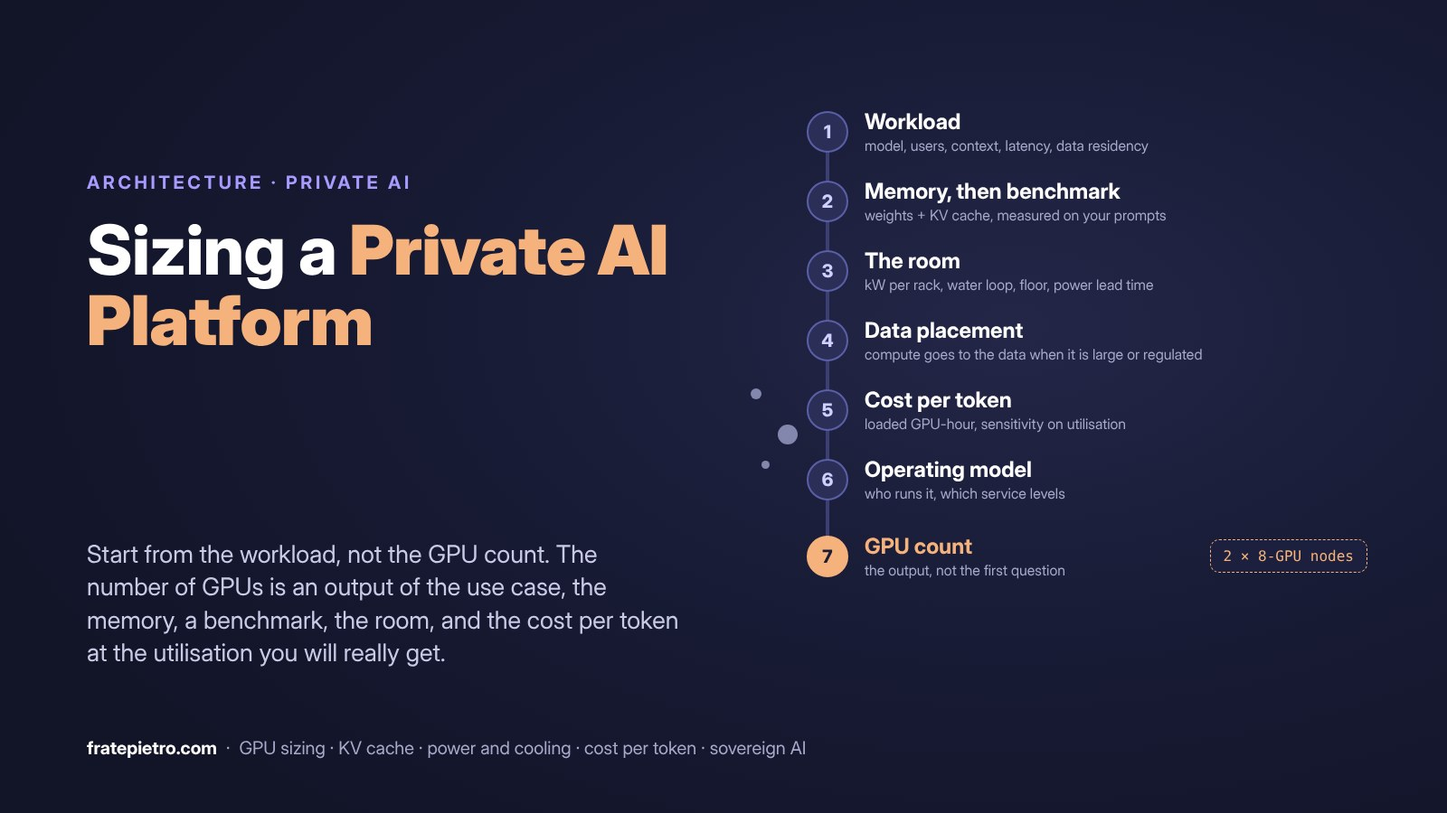
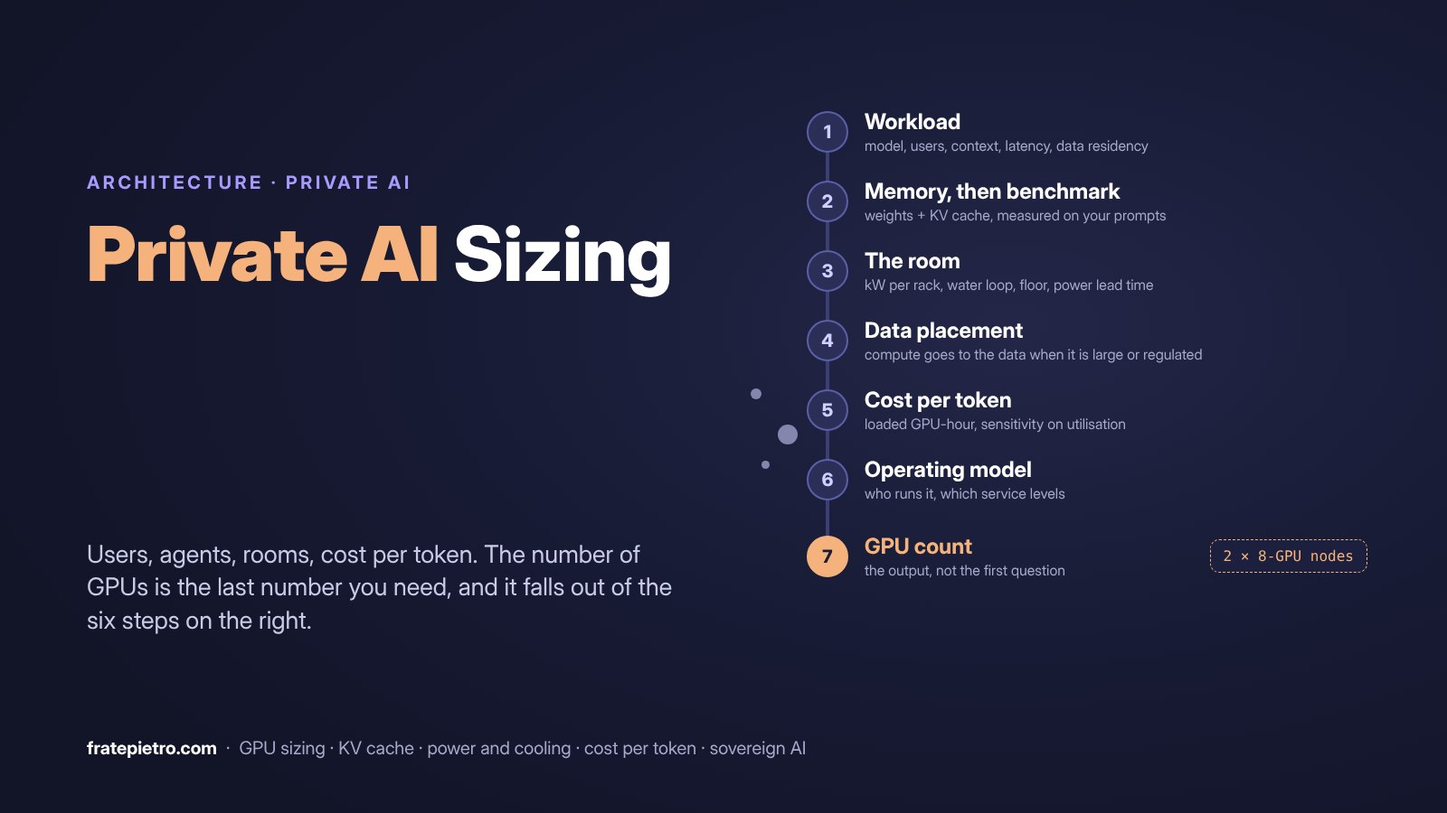
update

Changed region(s): [[0.0625, 0.6533, 0.4688, 0.84], [0.0625, 0.28, 0.4688, 0.4356]]

diff --git a/_posts/2026-10-29-private-ai-sizing-users-agents-rooms-cost-per-token.md b/_posts/2026-10-29-private-ai-sizing-users-agents-rooms-cost-per-token.md
@@ -1,0 +1,215 @@
+---
+layout: post
+title: "Private AI Sizing: Users, Agents, Rooms, Cost per Token"
+date: 2026-10-29
+categories: [Architecture]
+image: /assets/images/posts/private-ai-sizing-header.jpg
+tags: [AI Infrastructure, Private AI, Sovereign AI, GPU Sizing, LLM Inference, KV Cache, Agentic AI, TCO, Cost per Token, Energy per Token, Data Center, AI Factory, Banking, Healthcare, Public Sector]
+excerpt: "The first question a CTO asks about private AI is how many GPUs to buy. The answer comes from the other end: how many requests are in flight, whether the workload is chat or agents, what the regulator requires, the room the hardware goes in, and the cost and energy per token at the utilisation you will really get. Worked numbers for a bank, with prices as of October 2026."
+---
+
+<figure>
+  <img src="{{ '/assets/images/posts/private-ai-sizing-header.jpg' | absolute_url }}" alt="Private AI Sizing. Six numbered steps, workload, memory then benchmark, the room, data placement, cost per token, operating model, lead to the GPU count as the output.">
+</figure>
+
+The conversation about private AI starts the same way almost every time. A team has a few use cases running on cloud GPUs, the bill is growing, and the business wants a predictable cost and control over where the data goes. The first question on the table is how many GPUs to buy.
+
+I think this is the wrong first question. The number matters, and it is an output. Start from the GPU count and you get a quote. Start from the workload and you get a design, a cost you are able to defend, and a platform someone will run.
+
+Most sizing guides skip the two steps where the real uncertainty lives: how many requests are in flight at the same time, and what the industry's regulator forces on the design. This post covers both, with a bank as the running example, and then memory, the room, data placement, cost, energy and operations. A note on numbers. Hardware prices, cloud rates and electricity costs in this post are market observations from October 2026, and they will be out of date within months. GPU rental rates fell by a third in the past year alone. The formulas, the Little's law chain and the breakeven logic do not age. Keep the method, replace the inputs.
+
+## 1. Write down the workload before you talk to a vendor
+
+Four numbers decide most of the design. Get them from the people who own the use case.
+
+- Which model, and at which precision. A 70 billion parameter model in 8-bit floating point is about 70 GB of weights. In 16-bit, double that.
+- How many requests are in flight at the same time, at peak. Not registered users, not daily users. Requests being served right now.
+- How long the prompts and answers are. Retrieval-augmented generation makes prompts long, and long prompts eat memory.
+- Which latency the users will accept. Time to first token for a chat assistant is a different target from throughput for a nightly batch job.
+
+Add one constraint: where the data is allowed to live. For the bank, in the country, on hardware the bank controls.
+
+<figure>
+  <img src="{{ '/assets/images/posts/private-ai-sizing-six-steps.png' | absolute_url }}" alt="Six questions before the GPU count: workload, memory then benchmark, the room, data placement, cost per token, operating model. Each card lists its inputs and the output it produces. The GPU count is the result at the bottom.">
+  <figcaption>Each step produces one number or one decision. The bill of materials falls out at the end.</figcaption>
+</figure>
+
+### From employees to requests in flight
+
+The second number is the one nobody has. Sponsors know how many employees will get the assistant. The platform needs to know how many requests are being served at the same second. Little's law from queueing theory crosses the gap: requests in flight = arrival rate x time per request.
+
+Take a bank with 5,000 employees licensed for an internal assistant.
+
+- Adoption. One consultancy's copilot benchmarks put active users at [40 to 60 percent of licensed seats after six months](https://www.copilotconsulting.com/insights/microsoft-copilot-adoption-rates-benchmarks-2026), with daily actives at 30 to 40 percent of monthly actives, and slower uptake in financial services and healthcare. Call it 2,500 monthly users and 1,000 on a given day.
+- Frequency. A session has 3 to 5 prompts, and most people run one or two sessions a day. Call it 6 prompts per daily user, so 6,000 requests a day.
+- Peak hour. Office traffic concentrates. Assume 20 percent of the day lands in the busiest hour: 1,200 requests, one every three seconds.
+- Duration. A 1,500-token prompt and a 300-token answer at 30 tokens per second take about 10 seconds end to end.
+
+Little's law: 0.33 requests per second x 10 seconds = 3 or 4 requests in flight at peak. With a safety factor of three for lumpy arrivals and launches, plan for 10 to 12. For 5,000 employees. One 8-GPU node serves this with most of its capacity idle.
+
+"200 concurrent users" on a vendor slide means 200 requests in flight, which by this arithmetic is a bank with 50,000 to 100,000 daily users or a customer-facing assistant, not an internal copilot. Microsoft's [provisioned throughput sizing](https://learn.microsoft.com/en-us/azure/foundry/openai/how-to/provisioned-throughput-sizing) asks for the same inputs: peak requests per minute, prompt size, response size, cache rate. Their worked example of 1,000 requests per minute is consumer scale.
+
+Write the chain down: licensed, monthly active, daily active, prompts per day, peak hour share, seconds per request, requests in flight. Every link is an assumption the business owns and a number you will measure after launch.
+
+### Agents change every number in the chain
+
+An agent is a loop: the model reads, calls a tool, reads the result, plans again, and repeats until the task is done. Three things change.
+
+Tokens per task. A chat exchange is a few hundred to a couple of thousand tokens. A five-step agent task in a fraud-check example runs to [about 13,500 tokens](https://www.spheron.network/blog/agentic-ai-inference-cost-2026/), and analyst estimates for enterprise agents sit in a 5 to 30 times range over chat. At the far end, a Stanford and Michigan study of coding agents on SWE-bench found [roughly a thousand times more tokens than a code chat](https://arxiv.org/abs/2604.22750), with input tokens and cache reads driving most of the cost and token use between runs of the same task varying up to 30 times.
+
+Duration. A chat request lasts ten seconds. An agent run lasts minutes, so the same number of tasks per hour produces many more runs in flight, each holding a growing context in memory.
+
+Concurrency. Each run makes many model calls in sequence and re-sends most of the previous context each time. Prefix caching and cache-aware routing stop being optional.
+
+Back to the bank. Give 200 operations staff an agent that checks a transaction against policy, pulls three documents and drafts a note: 20 runs a day each, 4,000 runs a day, 800 in the peak hour, each about 3 minutes and 15,000 tokens. Little's law: 0.22 runs per second x 180 seconds = 40 runs in flight at 10 to 20 thousand tokens of context each, and 12 million tokens in the peak hour, or 3,300 tokens per second sustained. That is more load than the 5,000-employee assistant, from a group 25 times smaller.
+
+The rule: size chat assistants from users and sessions, size agents from tasks per hour and tokens per task, and expect the agent line to dominate within a year.
+
+### Peaks, and what happens above them
+
+Everything above is sized for the peak hour, and the peak hour is itself an average. Inside it, arrivals bunch. Monday at nine, the minutes after an all-hands email, a batch job someone scheduled at noon, an agent that fans out forty calls at once. A platform sized for 12 requests in flight will see 30 for a few seconds several times a day, and once a quarter it will see 100.
+
+Two numbers to agree with the business, not one. The peak you size for, and the peak you refuse. The first sets the GPU count. The second sets what the platform does when the first is exceeded, and that decision is part of the architecture.
+
+The choice is between three behaviours. Queue the request, with a bound, so the user waits a few seconds instead of timing out. Shed it with a clear retry signal, so the client backs off instead of retrying into a system that is already full. Or degrade it: a smaller model, a shorter context, a lower priority class for the batch job so the clinician or the adviser keeps their latency. Which of the three applies to which workload is a business decision, and in a regulated environment it is also an audit question, because "what did the platform do under load" will be asked after an incident.
+
+Routing picks the GPU. Admission control decides whether to take the request at all, based on free cache memory, remaining compute and concurrency limits. I wrote about how the serving engines and orchestrators implement it, and why agents need a different approach, in [Admission control for distributed LLM inference](https://www.fratepietro.com/2026/llm-admission-control-distributed-inference/). For sizing, the short version is this: the GPU count buys you the sized peak, and admission control buys you survival above it. Without the second, the first is a number on a slide. A platform with bounded queues and priority classes needs less headroom than one without, which is money.
+
+Three practical rules follow. Size for the peak hour, not the peak second, and let admission control absorb the difference. Give agents their own concurrency budget, because one runaway agent run can take the capacity of a hundred chat users. And measure the refused and queued requests from day one, because that count is the earliest signal that the agent line is growing faster than planned.
+
+## 2. Size the memory, then benchmark
+
+Inference is a memory problem first. Each GPU holds the weights plus the key-value cache, the working memory of every conversation in flight. For a Llama-class 70B model the cache is about 0.32 MB per token in 16-bit. One H100 with 4-bit weights fits [about 28 requests at 4K context and almost none at 128K](https://www.spheron.network/blog/how-many-concurrent-users-can-one-h100-serve-a-kv-cache-sizi/), which is why context length is on the list in step 1.
+
+KV cache per token = 2 x layers x KV heads x head dimension x bytes per value
+
+For the bank's two workloads together, 12 chat requests at 8K context and 40 agent runs at 16K, the cache is about 750,000 tokens, around 240 GB in 16-bit or 120 GB in 8-bit. Add 70 GB of weights. One 8-GPU H200 node has about 1.1 TB of high-bandwidth memory, so the bank fits in one node with room to grow, two with redundancy. Memory is rarely the constraint for an internal platform. Throughput at the agreed latency is.
+
+So stop trusting the paper here. Run the bank's own model with the bank's own prompts on the target hardware, and measure time to first token and tokens per second against the latency from step 1. NVIDIA's [benchmarking guide](https://developer.nvidia.com/blog/llm-inference-benchmarking-how-much-does-your-llm-inference-cost) gives the method: sweep concurrency, plot throughput against time to first token, pick the highest throughput that still meets the target (250 ms for chat in their example), and divide peak requests per second by requests per second per server. Vendor benchmarks tend to use shorter prompts than yours.
+
+A pilot should leave you with a benchmark on your prompts, a reference architecture, and a clear view of what the platform will cost to run.
+
+## 3. The industry decides more than the model does
+
+The arithmetic is the same in every sector. Who the users are, what they ask, and which rules shape the design are not.
+
+### Banking and insurance
+
+The users are relationship managers, analysts, operations and compliance staff. The use cases that pass risk review first are grounded in internal documents: client materials, policy checks, know-your-customer summaries, code assistance. In October 2026 Deutsche Bank [deployed an AI platform inside its own technology environment](https://www.marketsmedia.com/deutsche-bank-deploys-ai-on-premise-in-ib-capital-markets/) for investment banking teams, so that sensitive data, proprietary knowledge and workflow activity stay inside the bank.
+
+The rules are concrete. The ECB's [guide on cloud outsourcing](https://www.jonesday.com/en/insights/2025/11/new-ecb-guide-on-outsourcing-cloud-services-to-cloud-service-providers), published in July 2025 and used as a benchmark in the 2026 supervisory cycle, expects data storage restricted to approved jurisdictions with traceability, an assessment of third-country legal risk, an exit strategy with timelines and costs before go-live for every critical service, concentration risk assessed across providers, disaster recovery tested yearly including provider failure, and encryption in transit, at rest and where feasible in use. Under the Digital Operational Resilience Act an AI platform is an ICT system, so it enters the register of information with its dependency chain, model provider and hosting region included, and incidents on it are reportable. In November 2025 the European supervisors [designated 19 critical ICT third-party providers](https://www.dawiso.com/blog-post/ai-agents-in-banking-dora-compliance-2026), the three large hyperscalers among them.
+
+For the design this means a private or in-country deployment is the simplest answer to the data-location and exit questions, open-weight models are themselves an exit path, and key management, audit trail and exit plan are part of the architecture.
+
+### Healthcare
+
+The users are clinicians, and the use cases that work are anchored to a source text. A German university hospital with more than 10,000 employees [deployed DeepSeek-R1 on-premise through vLLM](https://arxiv.org/abs/2604.22768) behind network segmentation and egress filtering, and got management, data protection and security to approve processing unanonymised patient data. Report corrections, simplifications and guideline lookups scored well. Open-ended generation of conclusions produced clinically relevant errors. Twenty-two users in one week, so early, but the architecture is published.
+
+For the design: isolation first, then capacity. A hospital platform is small in GPUs and large in network and security engineering, and the peak-hour share is higher than in an office.
+
+### Public sector
+
+The scale is different. "OpenAI for Germany" for the public sector runs on [SAP's Delos Cloud, planned to grow to 4,000 GPUs](https://www.techradar.com/pro/germany-is-getting-its-own-sovereign-version-of-openai), for millions of public employees. That is a sovereign-cloud pattern: a dedicated in-country environment under national law, shared by many agencies. For a single ministry the question is which tenant quota, and which workloads need their own hardware anyway, usually those with classified data.
+
+### Research institutions
+
+The users already live in a batch scheduler. The mix is simulation, training and a growing inference tail, and data gravity dominates: datasets of tens of terabytes sit on a campus network. The pattern is colocation with redundant links to the campus, as in Helmholtz Munich's move of about 300 servers, plus public AI Factories such as JUPITER in Jülich for runs no single institute will fund. Tenders set the calendar, and the calendar is longer than a hardware generation.
+
+| Sector | Typical users | Use cases that clear risk review first | What shapes the design |
+| --- | --- | --- | --- |
+| Banking and insurance | Advisers, analysts, operations, compliance | Grounded document work, policy checks, code assistance | ECB cloud guide, DORA register and incident reporting, exit strategy, key management, in-country data |
+| Healthcare | Clinicians, researchers | Source-anchored tasks: report correction, simplification, guideline lookup | Patient data approval, network isolation, bursty clinical hours |
+| Public sector | Civil servants across agencies | Drafting, search over regulations, citizen-service support | Sovereign cloud tenancy under national law, separate hardware for classified data |
+| Research | Researchers, students | Training runs, simulation, inference for analysis | Data gravity to the campus, Slurm, public AI Factories, tender calendars |
+
+## 4. Ask about the room before you ask about the rack
+
+Power and cooling are not a detail. An H100 or H200 draws up to 700 W, a B200 1,000 to 1,200 W. An [8-GPU H100 node draws about 10 kW with server overhead, a B200 node 13 to 15 kW](https://www.spheron.network/blog/ai-inference-power-electricity-cost-2026/), and a GB200 NVL72 rack around 120 kW with liquid cooling to the chip. Most enterprise rooms were built for 5 to 15 kW per rack.
+
+Four questions for the facility before anyone draws a rack:
+
+- Kilowatts per rack, today and after the next upgrade of the room?
+- A water loop, or a plan for one? Rear-door heat exchangers reach roughly 40 kW. Above that it is direct liquid cooling and coolant distribution units.
+- Does the floor hold the weight?
+- How long does extra power take to arrive? In some cities, years.
+
+The bank's room is built for 8 kW per rack. So on-premise means air-cooled nodes spread across racks, or the GPU platform in a colocation site in the same country with a dedicated line, or inference near the users and anything heavier in colocation. Three options, three prices, and the constraints pick one. The 120 kW rack was never on the list: the bank does not need 72 GPUs in one NVLink domain to serve a 70B model.
+
+## 5. Decide where the data lives, then where the compute goes
+
+Data accumulates. Every dataset, model and log lands in one place, and after a year or two moving any of it takes months. The egress fee is the small part. Re-engineering pipelines and re-validating models is the large part.
+
+Decide data placement early and put compute next to the data when the data is large or regulated. For a research institute that means colocation with links to the campus. For the bank it means the same country and the same legal control, whatever the building.
+
+Sovereignty follows, and it is more than a location: who can access data and models, including support staff and foreign law, who holds the keys, where hardware and support come from, and whether you are able to leave. Open-weight models help because you know what you are running. Write the controls down at design time. In banking the ECB guide above is the list.
+
+## 6. Cost per token, with real prices and the utilisation you will really get
+
+The business case is the part most engineers skip and the part the board reads. Everything comes from the loaded cost per GPU-hour:
+
+cost per GPU-hour = (hardware amortised over 3 to 5 years + power + space + network + software + people) / (GPUs x hours x utilisation)
+
+Fill it in with the numbers you have today. Here is what they looked like in October 2026, so you have a worked example to replace. An [8-GPU H100 system costs 250,000 to 320,000 dollars new](https://www.cloudzero.com/blog/h100-gpu-cost/), about 285,000 typical, with H200 and B200 systems quote-based above that. NVIDIA's own worked example uses 320,000 dollars over four years plus 7,500 a year of hosting and software. Electricity at 0.12 dollars per kWh with a PUE of 1.4 comes to [about 150 dollars per GPU per month](https://www.spheron.network/blog/ai-inference-power-electricity-cost-2026/), roughly 0.21 dollars per GPU-hour, and about double that at European industrial rates. Add one platform engineer at 120,000 a year for two nodes, which is 0.86 dollars per GPU-hour on 16 GPUs.
+
+At 100 percent utilisation that is about 2.20 dollars per GPU-hour in the US and 2.40 in Europe. Real utilisation is the divisor:
+
+| Average utilisation | Loaded cost per GPU-hour, US power (Oct 2026) | Europe power (Oct 2026) |
+| --- | --- | --- |
+| 70 percent | 3.10 dollars | 3.40 dollars |
+| 50 percent | 4.40 dollars | 4.80 dollars |
+| 30 percent | 7.30 dollars | 8.00 dollars |
+
+Compare with the cloud: the [market median for an H100 is about 3.25 dollars per GPU-hour](https://www.cloudzero.com/blog/h100-gpu-cost/) on demand across providers, 4.40 for an H200 and around 5.70 for a B200 on spot, with the large hyperscalers at 6 to 7 dollars. So, at these prices, a private platform beats on-demand cloud above roughly 60 to 70 percent utilisation and loses below 50, before counting data control. The crossover moves as both sides reprice: when cloud rates fall faster than hardware prices, the bar for private rises, and the utilisation sensitivity is what tells you where it sits this quarter. One [unit-economics analysis](https://introl.com/blog/inference-unit-economics-true-cost-per-million-tokens-guide) puts the breakeven for self-hosting against managed APIs above 8,000 conversations a day, which matches the arithmetic from step 1.
+
+<figure>
+  <img src="{{ '/assets/images/posts/private-ai-sizing-cost-per-token.png' | absolute_url }}" alt="Bar chart of relative cost per token for the same private cluster at 20 to 80 percent average GPU utilisation. At 20 percent the cost is 3.5 times the cost at 70 percent, at 30 percent 2.3 times, at 40 percent 1.75 times, at 50 percent 1.4 times, at 60 percent 1.17 times, at 80 percent 0.88 times.">
+  <figcaption>Same hardware, same power, same people. Only the tokens change.</figcaption>
+</figure>
+
+Now the arithmetic from step 1 bites. The 5,000-employee assistant alone would run a node at a few percent utilisation outside the peak hour. The private case closes only when the platform carries steady work: the agent line, batch jobs at night, several use cases on shared capacity. Chat assistants justify a cloud subscription. Agents, batch and regulated data justify a platform.
+
+The comparison for a board is three to five years of cost, cloud against private, with a sensitivity on utilisation, egress and committed-use discounts on the cloud side, people on the private side. In most cases the answer is a hybrid: private for the steady load, cloud or GPU-as-a-service for the bursts.
+
+## 7. Energy per token
+
+Cost per token is energy per token with a price attached, and the energy number is becoming a reporting line of its own.
+
+Three reference points. Google measured a median Gemini text prompt at [0.24 watt-hours](https://arxiv.org/abs/2508.15734), about 860 joules, with 0.14 Wh on the accelerator and the rest in host, idle capacity and facility overhead, and a 33 times reduction per prompt over twelve months, 23 times from model changes and 1.4 times from utilisation. Microsoft Research puts [optimised frontier inference at a median 0.31 Wh per query](https://www.microsoft.com/en-us/research/?p=1170806), says public estimates overstate production energy by 4 to 20 times, and finds that long reasoning and agent queries raise energy per request by more than an order of magnitude. At the token level, a Carnegie Mellon [measurement on H200](https://arxiv.org/abs/2608.28044) puts Llama 3.1 8B at about 1.4 joules per output token at batch 16 and 2K context, and 5 to 6 joules per token at batch 1, a four times gap from batching alone.
+
+For the bank's node the estimate is direct, and it depends on the node's power draw and your tariff more than on anything a vendor publishes. A 10 kW node at PUE 1.3 draws 13 kW. At the 3,300 tokens per second of the agent peak that is about 4 joules per token, or 1.1 kWh per million tokens, roughly 0.25 dollars of electricity per million tokens at European rates. At 30 percent utilisation the node draws most of that power anyway, so energy per token roughly triples. The levers, in order: a smaller or quantized model, prefix caching, batching, and only then the hardware generation.
+
+The hardware is moving too. NVIDIA's [Rubin platform](https://nvidianews.nvidia.com/news/rubin-platform-ai-supercomputer), shipping from partners in the second half of 2026, carries 288 GB of HBM4 per GPU, 3.6 exaflops of 4-bit inference per 72-GPU rack, and a claim of up to 10 times lower cost per token than Blackwell for mixture-of-experts models. Spectrum-X Photonics switches with co-packaged optics claim 5 times better power efficiency than pluggable transceivers. Treat these as upper bounds until you run your own prompts, and remember that a faster rack is a denser rack: Rubin and Blackwell NVL72 are liquid-cooled, so step 4 comes back before the gain arrives.
+
+## 8. Design the operating model with the hardware
+
+On day two someone owns driver and firmware updates, the scheduler, capacity planning, incidents, patching, and a monthly report on utilisation, cost per token and energy per token. Decide who before the purchase order, because the answer changes the design.
+
+Researchers in Slurm and enterprise teams in Kubernetes with the GPU Operator need different platforms, and many organisations need both. If nobody in-house will run it, a managed service is part of the architecture, with service levels in the same document as the bill of materials. In a bank the operating model also answers the DORA questions: who reports an incident on the platform, within which deadline, with which evidence.
+
+## What the existing guides cover, and what they skip
+
+[VMware's sizing guidance](https://blogs.vmware.com/cloud-foundation/2024/09/25/llm-inference-sizing-and-performance-guidance/) sets the latency targets most people quote, under 200 ms to first token and 30 tokens per second per user. The [KV-cache walkthrough](https://www.spheron.network/blog/how-many-concurrent-users-can-one-h100-serve-a-kv-cache-sizi/) gives per-model cache figures and a concurrency ceiling per GPU. The [users-to-GPU method](https://garagegeekblog.com/2026/05/07/llm-sizing-101-part-2-from-tokens-per-second-to-gpu-count/) converts concurrent users to system tokens per second with 20 to 30 percent headroom. NVIDIA's [benchmarking post](https://developer.nvidia.com/blog/llm-inference-benchmarking-how-much-does-your-llm-inference-cost) turns a benchmark into cost per million tokens, and Microsoft's [throughput sizing](https://learn.microsoft.com/en-us/azure/foundry/openai/how-to/provisioned-throughput-sizing) is the cleanest statement of the inputs.
+
+All of them start from concurrent users or peak requests per minute as a given. None of them gets there from a headcount, treats agents as a different workload, says what the platform does above its sized peak, or includes the room, the regulator, the energy line or the operating model. Those are the steps where private AI projects stall.
+
+## The bank on one page
+
+Workload: 5,000 employees on a 70B assistant, 8-bit, about 12 requests in flight at peak, plus 200 operations staff on an agent, about 40 runs in flight at 16K context, 2 seconds to first token, data in country. Above the sized peak: bounded queue for chat, priority classes with agents and batch below interactive users, shed with a retry signal beyond that.
+
+Compute: two 8-GPU H200 nodes, one for capacity and one for redundancy, validated on the bank's prompts, with headroom for the agent line to triple.
+
+Network: NVLink inside the node, Ethernet between nodes, because inference replicas stay inside a node and the operations team already runs Ethernet.
+
+Storage: an all-flash tier for model loading and cache offload. A parallel file system waits until fine-tuning starts.
+
+Facility: the 8 kW room will not host the nodes in one rack, so in-country colocation with a dedicated line, or air-cooled nodes across racks. Priced both ways.
+
+Regulation: register of information entry, exit strategy with costs, keys under the bank's control, incident reporting path, all written before go-live.
+
+Cost and energy: loaded cost per GPU-hour, cost and energy per token at 40, 60 and 80 percent utilisation, against the current cloud bill including egress.
+
+Operations: who runs it, which service levels, a quarterly utilisation review, and a count of queued and refused requests in the monthly report.
+
+Every line traces to a requirement or a measurement, and every price carries a date. The GPU count appears in the second line, and it is the least interesting number on the page.
+
+When someone asks how many GPUs they need, the useful reply is a question: for what, for whom and how often, chat or agents, under which regulator, in which room, and who will run it.
